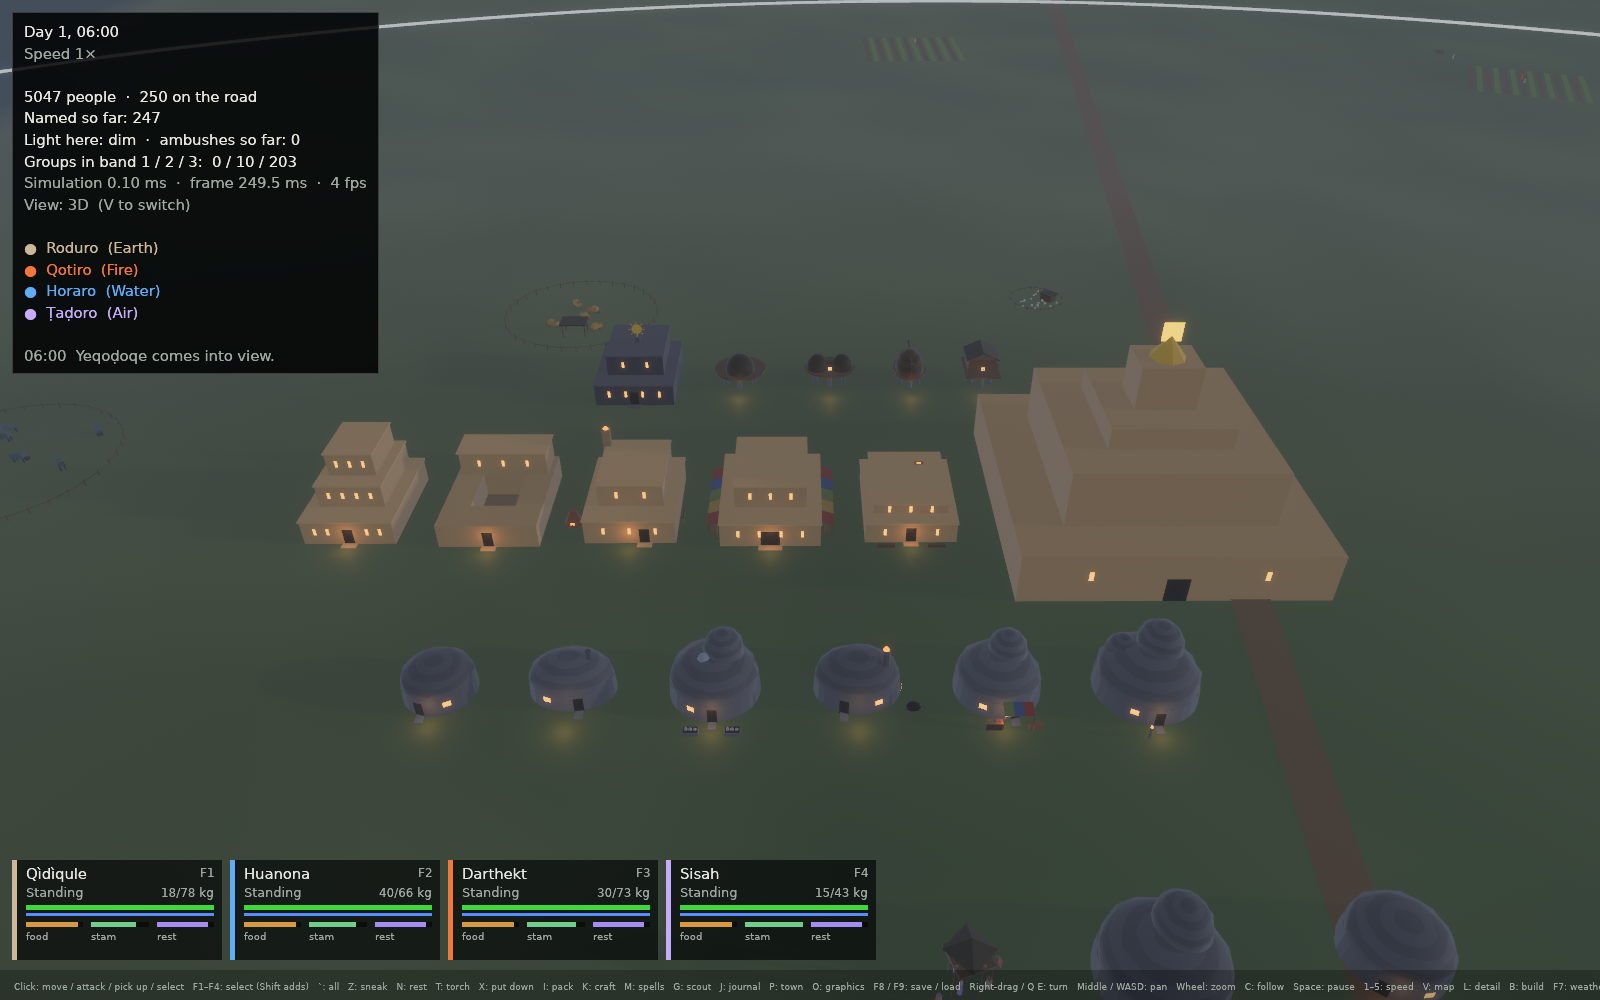
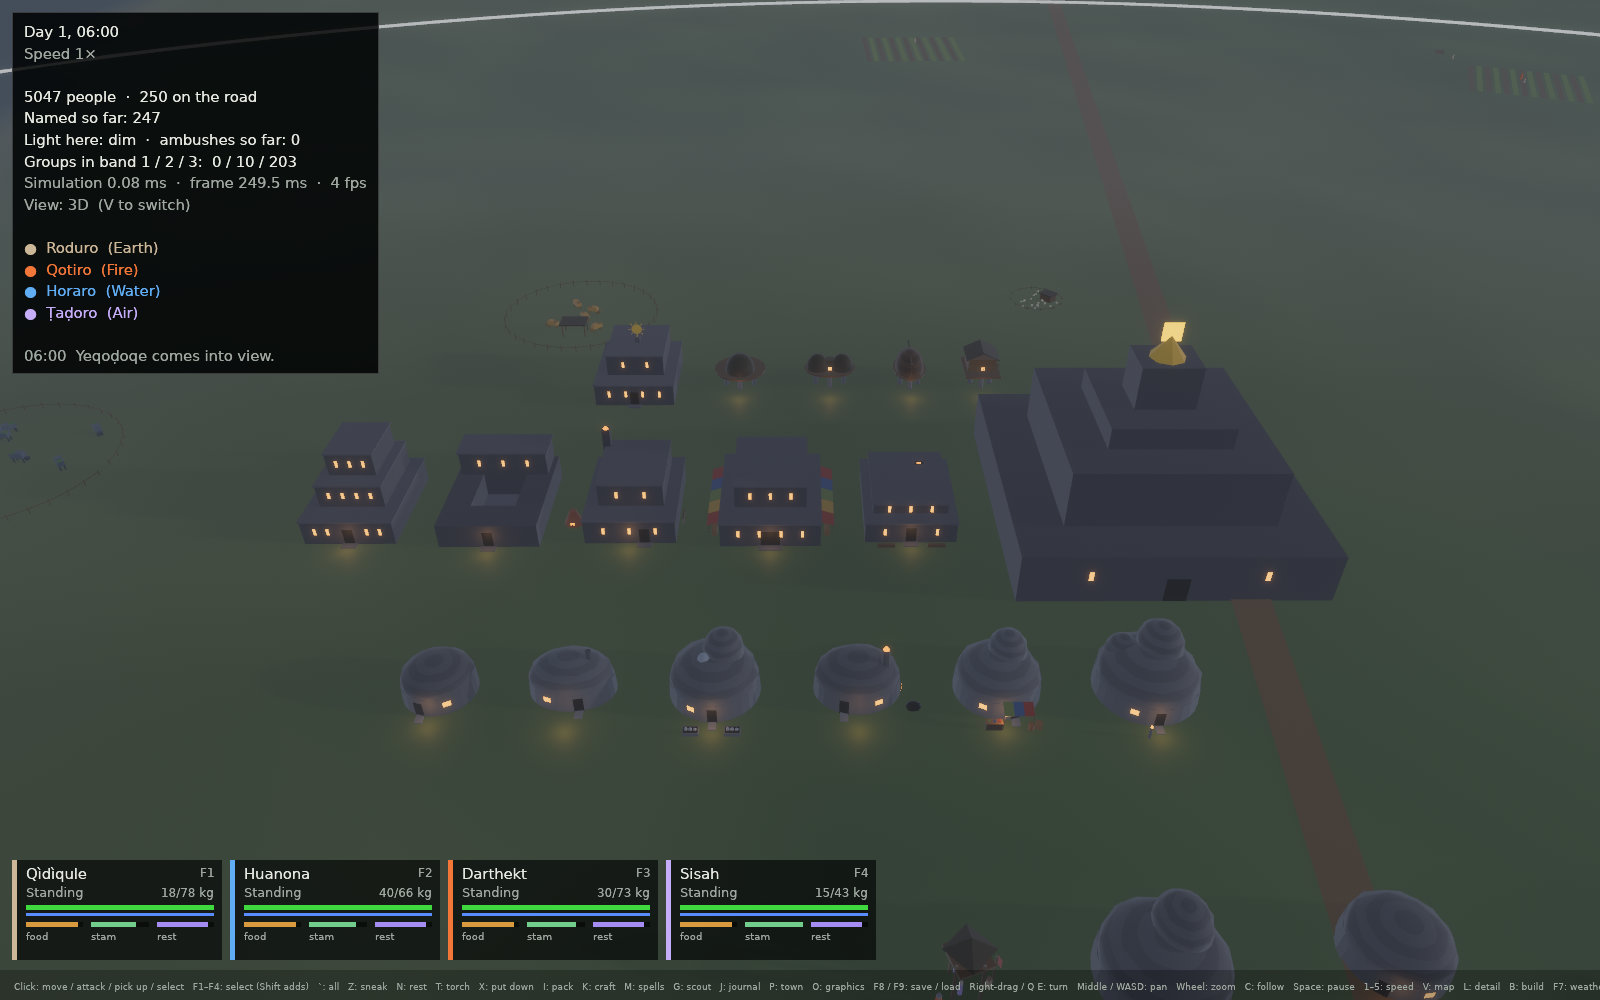
Qotiro buildings in the island's dark stone, no sandstone
Laz: no sandstone for the Qotiro. Every Qotiro building (temple, blocks,
island hall) and the Qotiro-style workplaces now use palette::QUARRIED,
the island's dark coastal stone cut into blocks; their stepped shape and
gold sun discs set them apart. The courtyard is paved to match. Canon
note added to CLAUDE.md; docs/shots variant rows retaken.

Claude-Session: https://claude.ai/code/session_01RNCz5cPwcp8ngF2jdtYrXo

Changed region(s): [[0.1875, 0.341, 0.8438, 0.62]]

diff --git a/src/view/scene.rs b/src/view/scene.rs
@@ -1037,7 +1037,7 @@ fn building(b: &mut Builder, gl: &mut Builder, t: &Terrain, bd: &Building, on_gr
             let mut sz = bd.size;
             for tier in 0..tiers {
                 let h = 4.0 + unit(10 + tier as u64) * 1.5 + if tier == 0 { sink } else { 0.0 };
-                b.block(base + vec3(0.0, y, 0.0), sz, sz * 0.8, h, bd.rot, palette::SANDSTONE);
+                b.block(base + vec3(0.0, y, 0.0), sz, sz * 0.8, h, bd.rot, palette::QUARRIED);
                 // A lit slit window on each tier.
                 let (sn, cs) = bd.rot.sin_cos();
                 gl.patch(base + vec3(0.0, y + h * 0.55, 0.0) + vec3(cs, 0.0, sn) * (sz * 0.5 + 0.02), 0.5, 1.0, bd.rot, palette::WINDOW);
@@ -1048,10 +1048,10 @@ fn building(b: &mut Builder, gl: &mut Builder, t: &Terrain, bd: &Building, on_gr
         BuildingKind::QotiroTemple => {
             let mut y = 0.0;
             for (f, h) in [(1.0, 7.0 + sink), (0.68, 8.0), (0.40, 3.0)] {
-                b.block(base + vec3(0.0, y, 0.0), bd.size * f, bd.size * f, h, bd.rot, palette::SANDSTONE);
+                b.block(base + vec3(0.0, y, 0.0), bd.size * f, bd.size * f, h, bd.rot, palette::QUARRIED);
                 y += h;
             }
-            b.block(base + vec3(0.0, y, 0.0), bd.size * 0.16, bd.size * 0.2, 6.0, bd.rot, palette::SANDSTONE);
+            b.block(base + vec3(0.0, y, 0.0), bd.size * 0.16, bd.size * 0.2, 6.0, bd.rot, palette::QUARRIED);
             b.column(base + vec3(0.0, y + 6.0, 0.0), bd.size * 0.06, 0.0, 3.0, 8, palette::METAL_GOLD);
             gl.patch(base + vec3(0.0, y + 9.5, 0.0), 2.6, 2.6, bd.rot, palette::METAL_GOLD);
         }
@@ -1488,7 +1488,7 @@ fn workplace(b: &mut Builder, gl: &mut Builder, t: &Terrain, wp: &Workplace, on_
             }
         }
         PlaceKind::MessHall | PlaceKind::Hall => {
-            b.block(base, size, size * 0.6, 4.0 + sink, rot, palette::SANDSTONE);
+            b.block(base, size, size * 0.6, 4.0 + sink, rot, palette::QUARRIED);
             b.block(base + vec3(0.0, 4.0 + sink, 0.0), size * 1.05, size * 0.65, 0.4, rot, palette::TIMBER);
             gl.patch(base + vec3(cs, 0.0, sn) * (size * 0.5 + 0.02) + vec3(0.0, 2.0 + sink, 0.0), 1.6, 1.4, rot, palette::WINDOW);
             if k == PlaceKind::Hall {
@@ -1521,7 +1521,7 @@ fn workplace(b: &mut Builder, gl: &mut Builder, t: &Terrain, wp: &Workplace, on_
             banner(b, base + vec3(cs, 0.0, sn) * (size * 0.5 + 1.2), palette::METAL_GOLD);
         }
         PlaceKind::Shrine => {
-            b.block(base, 4.0, 4.0, 0.8 + sink, rot, palette::SANDSTONE);
+            b.block(base, 4.0, 4.0, 0.8 + sink, rot, palette::QUARRIED);
             b.column(base + vec3(0.0, 0.8 + sink, 0.0), 0.5, 0.3, 3.0, 8, palette::STONE);
             gl.patch(base + vec3(0.0, 4.2 + sink, 0.0), 1.2, 1.2, rot, palette::METAL_GOLD);
         }
@@ -1566,7 +1566,7 @@ fn workplace(b: &mut Builder, gl: &mut Builder, t: &Terrain, wp: &Workplace, on_
                 }
                 gl.column(base + vec3(-sn, 0.0, cs) * -2.0, 0.6, 0.3, 0.9, 6, palette::EMBER);
             } else {
-                let col = if k == PlaceKind::Forge { palette::STONE } else { palette::SANDSTONE };
+                let col = if k == PlaceKind::Forge { palette::STONE } else { palette::QUARRIED };
                 b.block(base, size * 0.8, size * 0.7, 3.0 + sink, rot, col);
                 if k == PlaceKind::Forge {
                     b.block(base + vec3(-sn, 0.0, cs) * 1.5, 0.9, 0.9, 5.0 + sink, rot, palette::STONE);

diff --git a/src/view/interiors.rs b/src/view/interiors.rs
@@ -4,7 +4,7 @@
 //! - **Outside** (`exterior`): Roduro grown stone is a rounded drum under a
 //!   lumpy dome, sized by the variant's outline, with an upper bud for two
 //!   storeys; Qotiro quarried stone is stepped boxes, one tier a storey
-//!   (sandstone at home, local dark stone with a gold sun disc for the
+//!   (the island's dark stone, cut into blocks, never sandstone; a gold sun disc for the
 //!   island hall); Horaro stilt homes stand on stone pillars with a deck.
 //!   Workshops and shops show their trade outside (a forge's chimney, a
 //!   tender's beds, a trader's awning and counter, a potter's kiln, market
@@ -330,9 +330,9 @@ fn roduro(b: &mut Builder, gl: &mut Builder, v: &Variant, f: &Frame, size: f32, 
 }
 
 fn qotiro(b: &mut Builder, gl: &mut Builder, v: &Variant, f: &Frame, size: f32, sink: f32) {
-    let hall = v.kind == BuildingKind::QotiroHall;
-    let col = if hall { DARK_STONE } else { palette::SANDSTONE };
-    let cap = if hall { palette::scale(DARK_STONE, 1.25) } else { palette::scale(palette::SANDSTONE, 1.1) };
+    // Island stone for every Qotiro building, not sandstone (Laz).
+    let col = palette::QUARRIED;
+    let cap = palette::scale(palette::QUARRIED, 1.25);
     let (dx, dy) = door_spot(v);
     if v.kind == BuildingKind::QotiroTemple {
         // The temple-fortress: three great steps, a tower and a gold crown.
@@ -379,7 +379,7 @@ fn qotiro(b: &mut Builder, gl: &mut Builder, v: &Variant, f: &Frame, size: f32, 
             for sy in [-1.0f32, 1.0] {
                 b.block(f.at(0.0, sy * (1.0 + inner) * 0.5, y), f.hx * 2.0 * inner, (1.0 - inner) * f.hy, h, f.rot, col);
             }
-            b.block(f.at(0.0, 0.0, y - 0.05), f.hx * 2.0 * inner, f.hy * 2.0 * inner, 0.1, f.rot, [0.55, 0.45, 0.32]);
+            b.block(f.at(0.0, 0.0, y - 0.05), f.hx * 2.0 * inner, f.hy * 2.0 * inner, 0.1, f.rot, palette::scale(palette::QUARRIED, 1.4));
             y += h;
             continue;
         }
@@ -547,8 +547,7 @@ pub fn interior(b: &mut Builder, gl: &mut Builder, d: &Door, on_ground: &dyn Fn(
     let f = Frame { c: d.centre, rot: d.rot, hx: d.half.x, hy: d.half.y, y: floor };
     let (wall_col, floor_col, inner_col) = match v.kind {
         BuildingKind::RoduroHome => (palette::STONE, [0.30, 0.28, 0.26], [0.50, 0.50, 0.50]),
-        BuildingKind::QotiroHall => (DARK_STONE, [0.30, 0.28, 0.26], [0.45, 0.44, 0.43]),
-        _ => (palette::SANDSTONE, [0.58, 0.49, 0.36], [0.86, 0.76, 0.58]),
+        _ => (palette::QUARRIED, [0.30, 0.28, 0.26], [0.45, 0.44, 0.43]),
     };
     // The floor, a slab down into the ground.
     if d.round {

diff --git a/src/view/palette.rs b/src/view/palette.rs
@@ -32,7 +32,9 @@ pub const STAIR: Rgb = [0.50, 0.48, 0.44];
 pub const STAIR_RISER: Rgb = [0.30, 0.29, 0.27];
 
 pub const STONE: Rgb = [0.38, 0.39, 0.41];
-pub const SANDSTONE: Rgb = [0.78, 0.63, 0.42];
+/// Qotiro quarried stone: the island's dark coastal rock, cut into blocks
+/// (Laz: no sandstone for the Qotiro).
+pub const QUARRIED: Rgb = [0.27, 0.27, 0.29];
 pub const WEAVE: Rgb = [0.24, 0.21, 0.16];
 pub const TIMBER: Rgb = [0.36, 0.27, 0.18];
 pub const METAL_GOLD: Rgb = [0.95, 0.76, 0.28];

diff --git a/src/sim/layout.rs b/src/sim/layout.rs
@@ -505,6 +505,7 @@ pub const VARIANTS: &[Variant] = &[
         holders: &[h(Chest, -0.8, -0.5, Q), h(Cupboard, -0.85, 0.35, Q)],
     },
     // The island (diaspora) hall: Qotiro shape, local dark stone (`architecture.md`).
+    // Every Qotiro building is in that dark stone; no sandstone (Laz).
     Variant {
         key: "qotiro_island_hall",
         name: "Qotiro hall",

diff --git a/CLAUDE.md b/CLAUDE.md
@@ -369,6 +369,8 @@ takes ~20 minutes on this container's 2 cores; later ones under a minute.
 - Ṭaḍoro don't found towns or build; they lodge in others' homes, or wander and pitch a tent.
 - Buildings follow `architecture.md` (grown Roduro stone, Horaro stilts on Roduro
   pillars, quarried Qotiro steps, diaspora Qotiro hall in local dark stone).
+  Qotiro build in the island's dark stone everywhere, never sandstone (Laz,
+  2026-10-09): their stepped, quarried shape and gold sun discs set them apart.
 - The south-east inland is Qotiro country — a raised arid plateau; elsewhere
   inland is mostly Roduro. Mountains wall the north and east, plus one massif.
 - Population is 5,000 split evenly by race (a starting point, Laz's call).
